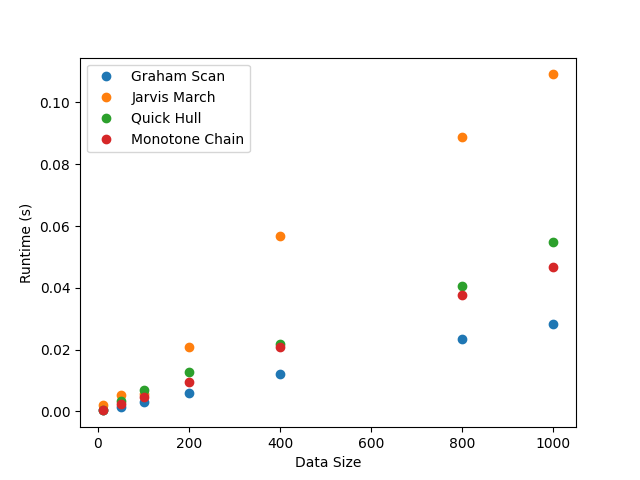
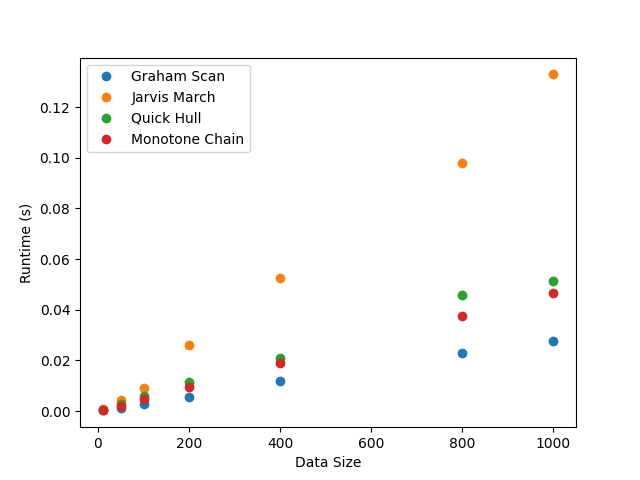
Completed Task 1

diff --git a/complex_hull_2D.py b/complex_hull_2D.py
@@ -29,16 +29,16 @@ def jarvis_march(data):
     x_min_ind = np.argmin(data[:, 0])
     x_min = data[x_min_ind]
     hull = []
-    p=x_min
+    p=x_min_ind
     n = len(data)
     while(True):
-        hull.append(p)
+        hull.append(data[p])
         q = (p + 1) % n
-        for r in data:
-            if np.cross(np.array(r-p), np.array(q-p)) < 0:
+        for r in range(n):
+            if np.cross(np.array(data[r]-data[p]), np.array(data[q]-data[p])) < 0:
                 q = r
         p = q
-        if np.allclose(p, x_min):
+        if p == x_min_ind:
             break
     return np.array(hull)
 
@@ -182,25 +182,29 @@ def time_histograms(filename):
     quick_times = []
     monotone_times = []
     size = 50
-    reps = 50
+    reps = 100
     for i in range(reps):
-        data = generate_gaussian_point_cloud(0, 1, size)
+        data = generate_uniform_point_cloud(0, 1, size)
         starttime = time.time()
         hull = graham_scan(data)
         endtime = time.time()
         graham_times.append(endtime - starttime)
+        print(i)
         starttime = time.time()
         hull = jarvis_march(data)
         endtime = time.time()
         jarvis_times.append(endtime - starttime)
+        print(i)
         starttime = time.time()
         hull = quick_hull(data)
         endtime = time.time()
         quick_times.append(endtime - starttime)
+        print(i)
         starttime = time.time()
         hull = monotone_chain(data)
         endtime = time.time()
         monotone_times.append(endtime - starttime)
+        print(i)
     labels = ['Graham Scan', 'Jarvis March', 'Quick Hull', 'Monotone Chain']
     arrays = [graham_times, jarvis_times, quick_times, monotone_times]
 
